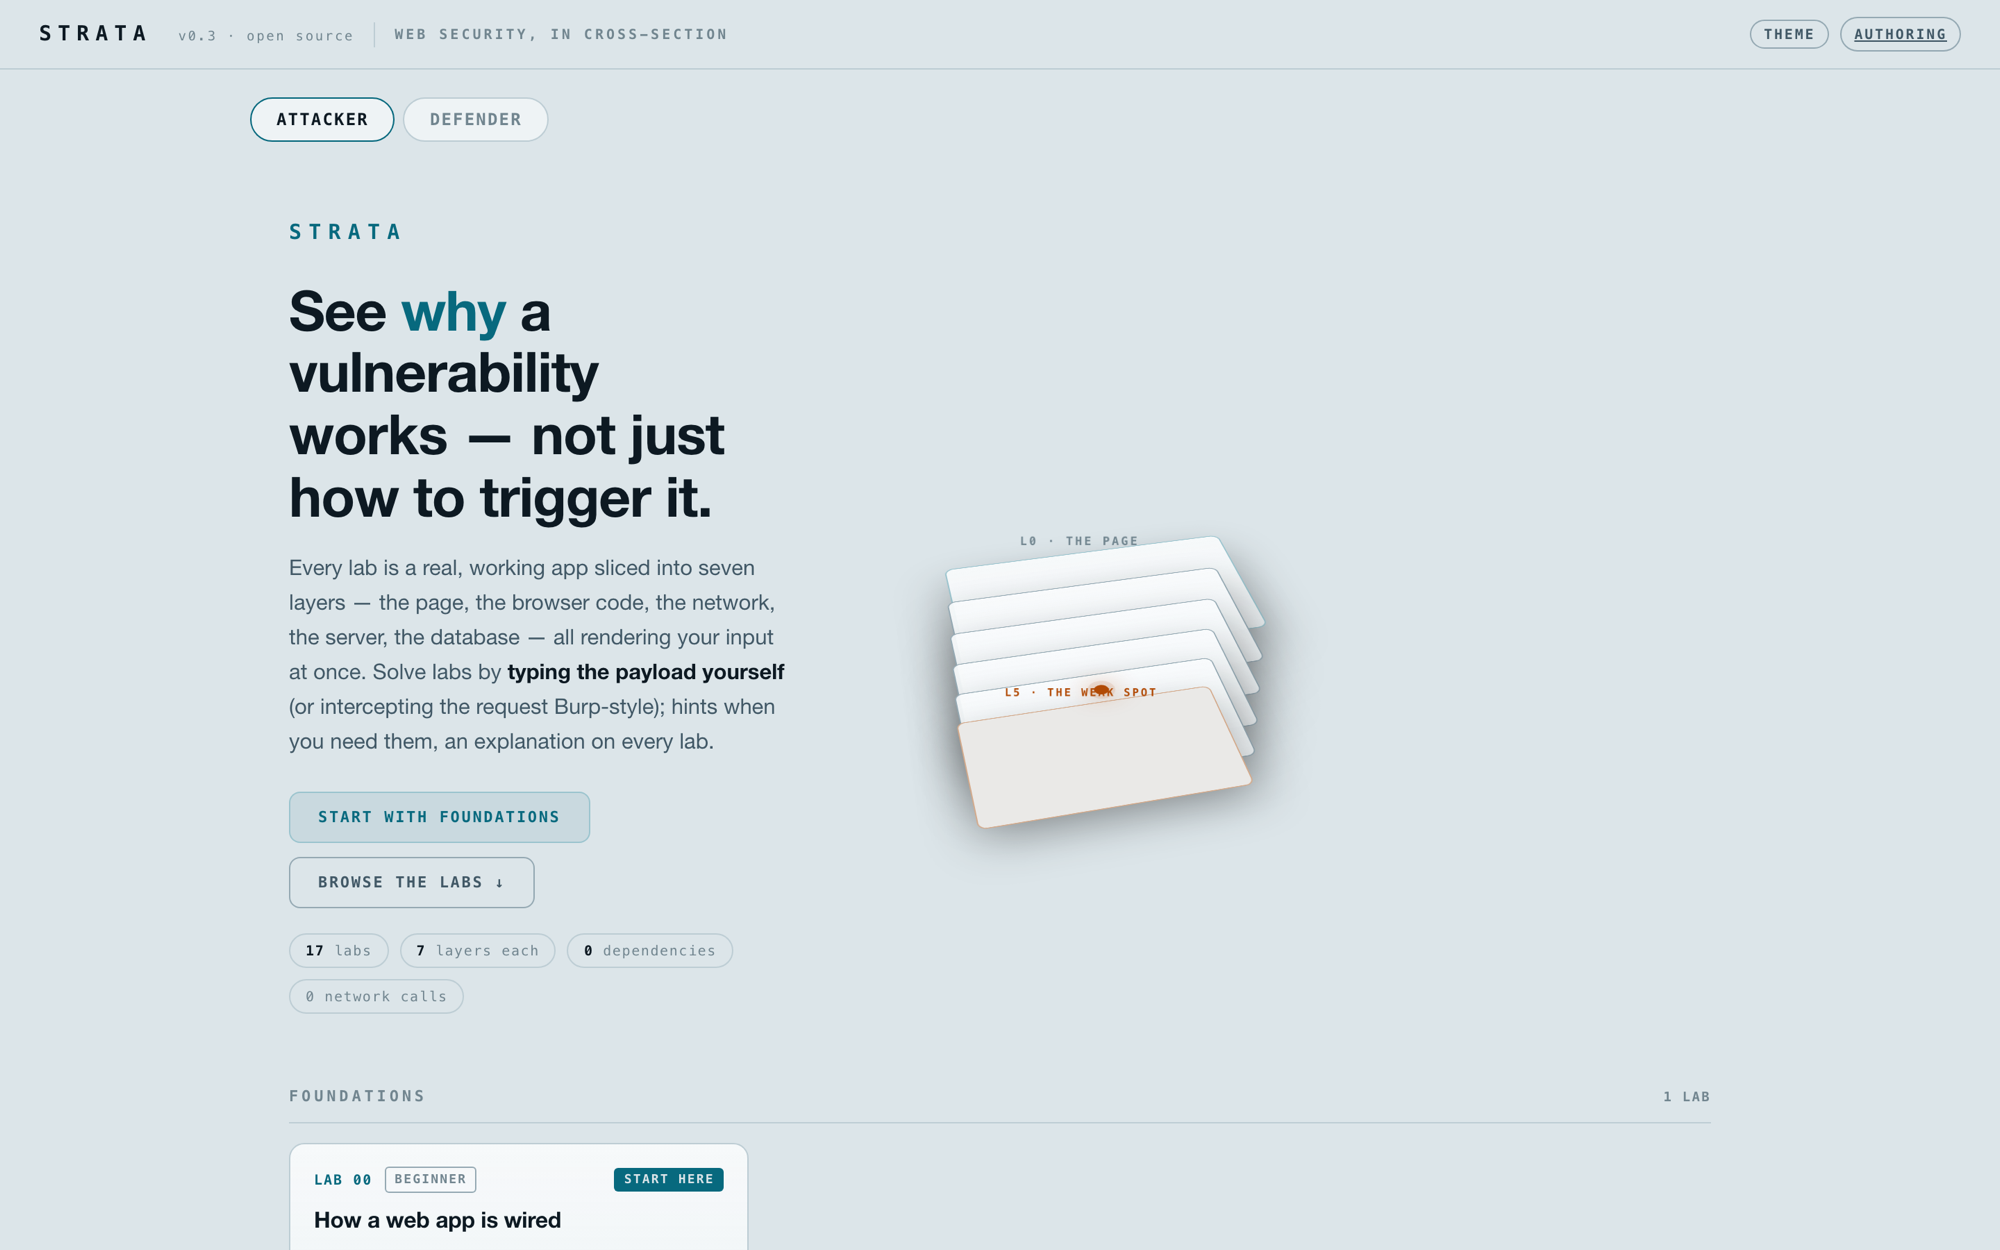
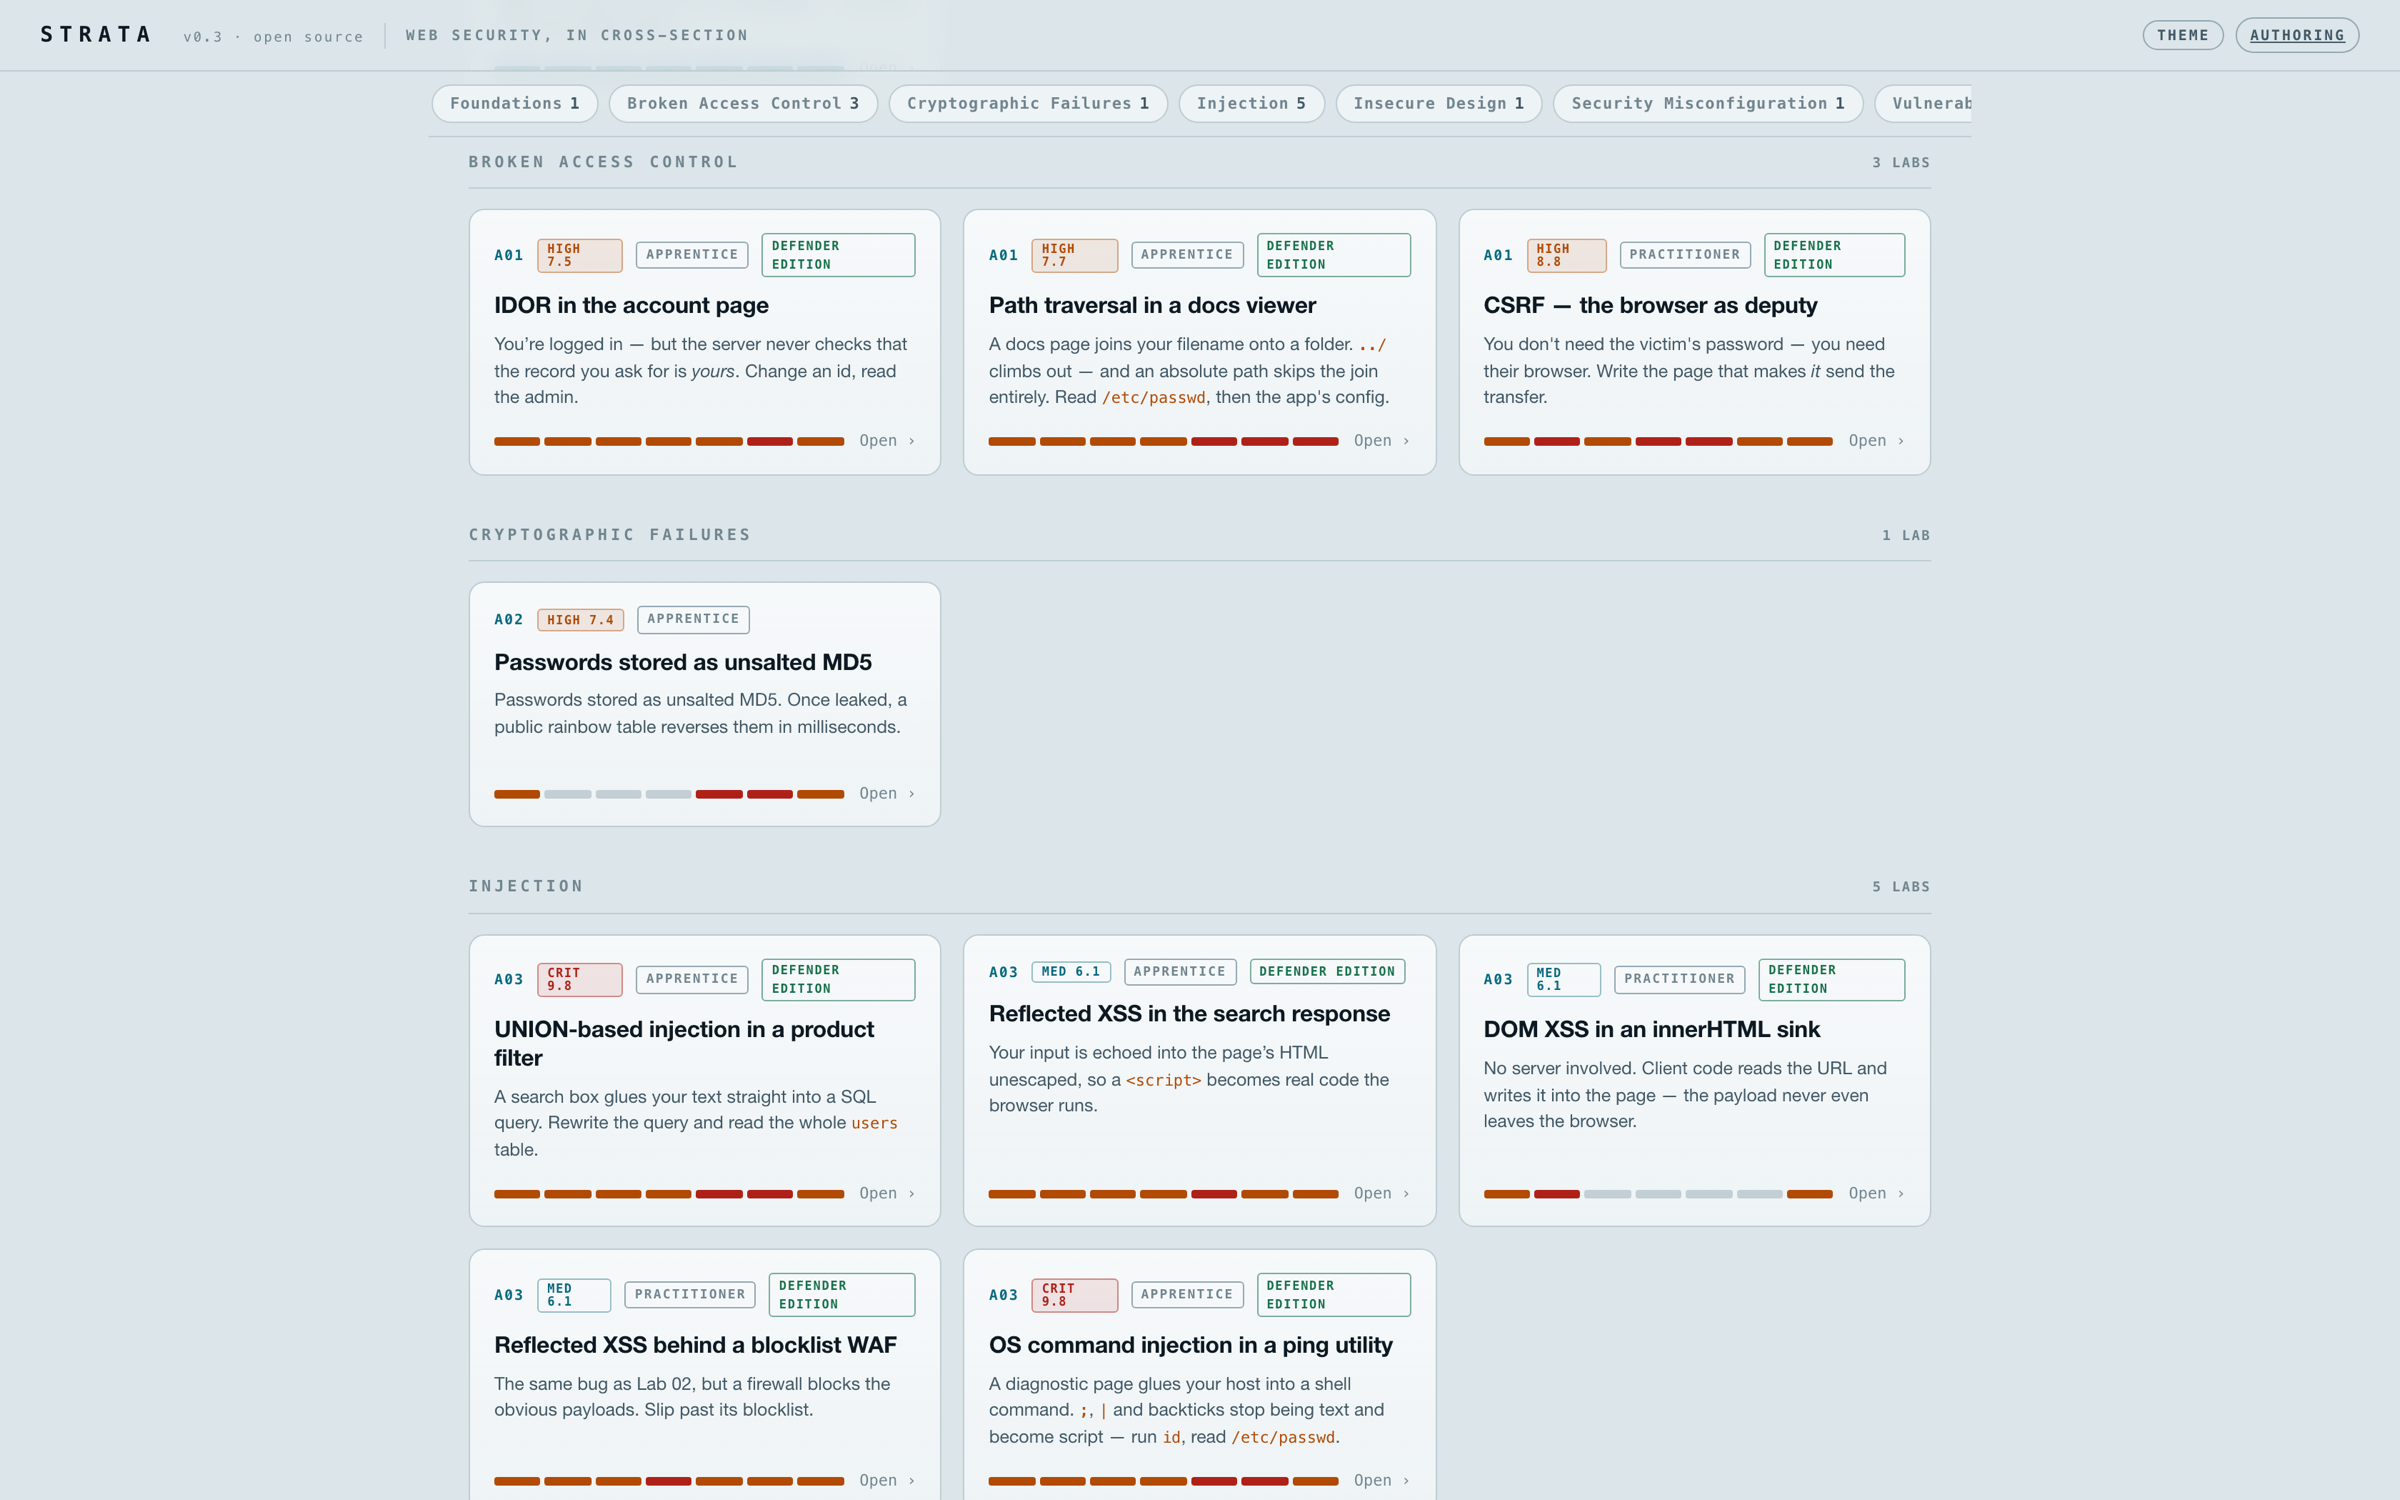
Landing nav + side-aware picker; HD demo GIF and cross-section stills
App:
- Sticky catalog track-nav on the landing: a scrollable row of chips (one per
  category, plus Your labs / Shelf / How it works) that jumps straight to any
  track. Pinned directly beneath the sticky homebar (measured, not guessed),
  with matching scroll-margin so jumped headings clear both bars. Makes the
  long catalog navigable without scrolling past the hero.
- Side-aware lab picker: every lab with a defender edition is marked 🛡, and
  on the Defender side the dropdown regroups into "Defender editions" first
  and "Attacker only — jumping here switches sides", so you always know which
  side a lab is on. Re-grouped on every lab entry to reflect the current side.

README images:
- Demo GIF re-rendered in HD (1100px, from a 1440×900 capture).
- Cross-section stills re-captured at full resolution and legible again (the
  old ones were softened by an aggressive downscale); tuned to 2400px.
- Featured a cross-section early: the Foundations tour, edge-on, right after
  Quick start — showcasing the instrument before the prose.
- 01-catalog.png now shows the ACTUAL card grid (with the new track-nav),
  placed in the lab-catalog section — the old shot was the hero/summary, not
  the catalog.

All four suites pass; full-lab browser smoke clean (17 labs, 0 errors).

diff --git a/strata.html b/strata.html
@@ -1216,6 +1216,19 @@ select.labsel option{background:var(--strata); color:var(--ink)}
   padding:9px 18px;cursor:pointer;transition:color .15s,border-color .15s}
 .htab:hover{color:var(--ice)}
 .htab[aria-pressed="true"]{color:var(--ink);border-color:var(--signal)}
+/* sticky catalog nav — jump straight to any track without scrolling the hero */
+.catnav{position:sticky;top:0;z-index:30;display:flex;gap:7px;flex-wrap:nowrap;overflow-x:auto;
+  margin:14px auto 0;width:min(1080px,calc(100% - 48px));padding:9px 2px;
+  background:color-mix(in srgb,var(--void) 86%,transparent);backdrop-filter:blur(8px);
+  border-bottom:1px solid var(--rule);scrollbar-width:thin}
+.catnav::-webkit-scrollbar{height:6px}
+.catnav::-webkit-scrollbar-thumb{background:var(--rule);border-radius:3px}
+.catchip{flex:0 0 auto;font:600 11px/1 ui-monospace,SFMono-Regular,Menlo,monospace;letter-spacing:.05em;
+  color:var(--dim);background:var(--strata);border:1px solid var(--rule);border-radius:999px;
+  padding:7px 12px;cursor:pointer;white-space:nowrap;transition:color .15s,border-color .15s}
+.catchip:hover{color:var(--ink);border-color:var(--signal)}
+.catchip b{color:var(--ice);font-weight:700;margin-left:5px}
+.track,.notes{scroll-margin-top:58px}   /* clear the sticky catnav when jumped to */
 .defnote{font-size:11.5px;color:var(--dim);margin:2px 2px 10px;line-height:1.5}
 .dopt{display:block;width:100%;text-align:left;margin:0 0 8px;padding:9px 11px;background:var(--strata);
   border:1px solid var(--rule);border-radius:8px;cursor:pointer;transition:border-color .15s}
@@ -4918,11 +4931,23 @@ const state = { q:"", active:0, cross:false, analysis:null, source:"boot", ix:fa
 
 /* lab picker */
 function buildPicker(){
-  const groups = {};
-  LABS.forEach(l => (groups[l.cat] ??= []).push(l));
-  el("labsel").innerHTML = Object.entries(groups).map(([cat, ls]) =>
-    `<optgroup label="${esc(cat)}">${ls.map(l => `<option value="${l.id}">${esc(l.code)} · ${esc(l.title)}</option>`).join("")}</optgroup>`
-  ).join("");
+  // A 🛡 marks a lab with a defender edition. On the defender side the picker
+  // groups those first (they're the only ones that stay in defend) and warns
+  // that the rest drop you back to attacker — so a jump is never a surprise.
+  const opt = l => `<option value="${l.id}">${esc(l.code)} · ${esc(l.title)}${l.defense ? " · 🛡" : ""}</option>`;
+  const sel = el("labsel");
+  if (state.mode === "defend"){
+    const def = LABS.filter(l => l.defense), atk = LABS.filter(l => !l.defense);
+    sel.innerHTML =
+      `<optgroup label="🛡 Defender editions">${def.map(opt).join("")}</optgroup>`
+      + (atk.length ? `<optgroup label="⚔ Attacker only — jumping here switches sides">${atk.map(opt).join("")}</optgroup>` : "");
+  } else {
+    const groups = {};
+    LABS.forEach(l => (groups[l.cat] ??= []).push(l));
+    sel.innerHTML = Object.entries(groups).map(([cat, ls]) =>
+      `<optgroup label="${esc(cat)}">${ls.map(opt).join("")}</optgroup>`).join("");
+  }
+  if (typeof LAB !== "undefined" && LAB) sel.value = LAB.id;
 }
 el("labsel").addEventListener("change", e => buildLab(e.target.value, state.mode));   // the picker keeps your side; goHome resets to attack
 buildPicker();
@@ -4981,7 +5006,7 @@ function buildLab(id, mode){
   const labSev = sevOf(LAB);
   el("labDiff").textContent = LAB.difficulty + (labSev ? ` · ${labSev[0]} ${labSev[1]}` : "");
   el("labGoal").innerHTML = LAB.goal;
-  el("labsel").value = LAB.id;
+  buildPicker();   // re-group for the current side, then select this lab
   el("presetLbl").textContent = LAB.consoleLabel || "Payloads";
 
   // intercept affordance — a lab without a wire gets the lesson, not the tool
@@ -5738,6 +5763,7 @@ function buildHome(){
   const shown = defending ? LABS.filter(l => l.defense) : LABS;
   const order = [], byCat = {};
   shown.forEach(l => { if (!byCat[l.cat]){ byCat[l.cat] = []; order.push(l.cat); } byCat[l.cat].push(l); });
+  const slug = s => String(s).toLowerCase().replace(/[^a-z0-9]+/g, "-").replace(/^-|-$/g, "");
 
   const solvedP = l => { const p = PROGRESS[l.id]; return p && (p.solved || p.solvedWithHelp); };
   const defendedP = l => !!(PROGRESS[l.id] && PROGRESS[l.id].defended);
@@ -5771,7 +5797,7 @@ function buildHome(){
     ? order.map(cat => {
         const ls = byCat[cat];
         const n = defending ? ls.filter(defendedP).length : solvedCount(ls);
-        return `<section class="track"><h2 class="track-h">${esc(cat)}
+        return `<section class="track" id="track-${slug(cat)}"><h2 class="track-h">${esc(cat)}
           <span class="tcount">${n ? `${n}/${ls.length} ${defending ? "patched" : "solved"}` : `${ls.length} ${ls.length === 1 ? "lab" : "labs"}`}</span></h2>
           <div class="cardgrid">${ls.map(card).join("")}</div></section>`;
       }).join("")
@@ -5812,6 +5838,12 @@ function buildHome(){
     <button class="htab" id="tabAttack" role="tab" aria-pressed="${!defending}">Attacker</button>
     <button class="htab" id="tabDefend" role="tab" aria-pressed="${defending}">Defender</button>
   </div>
+  <nav class="catnav" aria-label="Jump to a track">
+    ${order.map(cat => `<button class="catchip" data-jump="track-${slug(cat)}">${esc(cat)}<b>${byCat[cat].length}</b></button>`).join("")}
+    <button class="catchip" data-jump="track-yours">＋ Your labs</button>
+    <button class="catchip" data-jump="track-shelf">☁ Shelf</button>
+    ${defending ? "" : `<button class="catchip" data-jump="track-how">How it works</button>`}
+  </nav>
   <div class="home-inner">
     <header class="hero">
       <div class="hero-copy">
@@ -5837,7 +5869,7 @@ function buildHome(){
       ${stack}
     </header>
     ${tracks}
-    <section class="track"><h2 class="track-h">Your labs<span class="tcount">lab files · validated on load</span></h2><div class="cardgrid">
+    <section class="track" id="track-yours"><h2 class="track-h">Your labs<span class="tcount">lab files · validated on load</span></h2><div class="cardgrid">
       <button class="labcard addlab" id="addLabBtn" type="button">
         <div class="lc-top"><span class="lc-code">＋</span></div>
         <div class="lc-title">Load a lab file</div>
@@ -5845,7 +5877,7 @@ function buildHome(){
         <div class="lc-strip"><span class="lc-go">Authoring docs ›</span></div>
       </button>
     </div></section>
-    <section class="track"><h2 class="track-h">Community shelf<span class="tcount">hash-verified · sandboxed · opt-in network</span></h2><div class="cardgrid">
+    <section class="track" id="track-shelf"><h2 class="track-h">Community shelf<span class="tcount">hash-verified · sandboxed · opt-in network</span></h2><div class="cardgrid">
       <button class="labcard addlab" id="shelfBtn" type="button">
         <div class="lc-top"><span class="lc-code">☁</span></div>
         <div class="lc-title">Browse a community catalog</div>
@@ -5853,7 +5885,7 @@ function buildHome(){
         <div class="lc-strip"><span class="lc-go">Open the shelf ›</span></div>
       </button>
     </div></section>
-${defending ? "" : `    <section class="notes">
+${defending ? "" : `    <section class="notes" id="track-how">
   <h2>How STRATA works</h2>
   <p class="lede">STRATA turns a vulnerable app into a cross-section you fly through: seven planes stacked in depth, all rendering the same request at once. Seventeen labs ship in this file — Foundations, the OWASP Top 10, the injection set, and the access-control set — and the catalog takes any number more: a lab file is a plain <code>.js</code> away (see the authoring guide). The same instrument teaches every bug class without changing its rules.</p>
 
@@ -5901,6 +5933,11 @@ ${defending ? "" : `    <section class="notes">
       else if (b.id === "addLabBtn") pickLabFile();
       else if (b.id === "shelfBtn") openShelf();
     }));
+  [...el("home").querySelectorAll(".catchip")].forEach(b =>
+    b.addEventListener("click", () => {
+      const t = el(b.dataset.jump);
+      if (t) t.scrollIntoView({ behavior: reduced ? "auto" : "smooth", block: "start" });
+    }));
   el("homeThemeBtn").addEventListener("click", toggleTheme);
   el("tabAttack").addEventListener("click", () => { if (homeTab !== "attack"){ homeTab = "attack"; buildHome(); } });
   el("tabDefend").addEventListener("click", () => { if (homeTab !== "defend"){ homeTab = "defend"; buildHome(); } });
@@ -5912,6 +5949,19 @@ ${defending ? "" : `    <section class="notes">
     const t = el("home").querySelector(".track");
     if (t) t.scrollIntoView({ behavior: reduced ? "auto" : "smooth", block: "start" });
   });
+  // the homebar is sticky at top:0 — pin the catnav directly beneath it (not
+  // behind it), and give every jump target enough scroll-margin to clear both.
+  const placeCatnav = () => {
+    const hb = el("home").querySelector(".homebar"), cn = el("home").querySelector(".catnav");
+    if (!hb || !cn) return;
+    const h = hb.offsetHeight;
+    cn.style.top = h + "px";
+    const clear = (h + cn.offsetHeight + 10) + "px";
+    el("home").querySelectorAll(".track, .notes").forEach(t => t.style.scrollMarginTop = clear);
+  };
+  requestAnimationFrame(placeCatnav);
+  if (!buildHome._resize){ buildHome._resize = () => placeCatnav(); window.addEventListener("resize", () => buildHome._resize()); }
+  else buildHome._resize = placeCatnav;   // keep the latest render's measurement, one listener total
 }
 
 /* file picker + drag-drop for lab files */

diff --git a/README.md b/README.md
@@ -61,7 +61,7 @@ python3 -m http.server 8641     # then visit http://127.0.0.1:8641/strata.html
 
 No build step, no `npm install`, no accounts, no backend. Progress persists in your browser's `localStorage` (`strata.progress.v1`) and never leaves your machine.
 
-<div align="center"><br><img src="docs/img/01-catalog.png" alt="The STRATA landing page and lab catalog, with an Attacker / Defender toggle and labs grouped by OWASP category." width="760"><br><sub>*The catalog — 17 built-in labs, grouped by category, in both Attacker and Defender directions.*</sub><br><br></div>
+<div align="center"><br><img src="docs/img/06-foundations.png" alt="STRATA's Foundations lab in cross-section: seven layers of one ordinary web request stacked in depth, with a taint trace on the right narrating each layer from the page down to the database." width="880"><br><sub>*The whole instrument in one glance — the Foundations tour, edge-on. Seven layers of a single request, from the page to the database. Every lab is this same machine with a different bug wired in.*</sub><br><br></div>
 
 ---
 
@@ -159,6 +159,8 @@ flowchart TD
 ## The lab catalog
 
 **17 built-in labs** span Foundations and the full OWASP Top 10. Ten of them flip to Defender.
+
+<div align="center"><br><img src="docs/img/01-catalog.png" alt="The STRATA catalog: labs grouped by OWASP category as cards — each showing a severity chip, difficulty, a signature strip, and a 'defender edition' tag — with a sticky track-nav pinned at the top for jumping between categories." width="880"><br><sub>*The catalog — grouped by category, with a sticky track-nav for jumping around; each card shows its severity, difficulty, taint signature, and whether it flips to Defender.*</sub><br></div>
 
 | # | Lab | Category | Difficulty | Obj. | Severity¹ | Defender | Intercept |
 |:--|:--|:--|:--|:-:|:--|:-:|:--|
